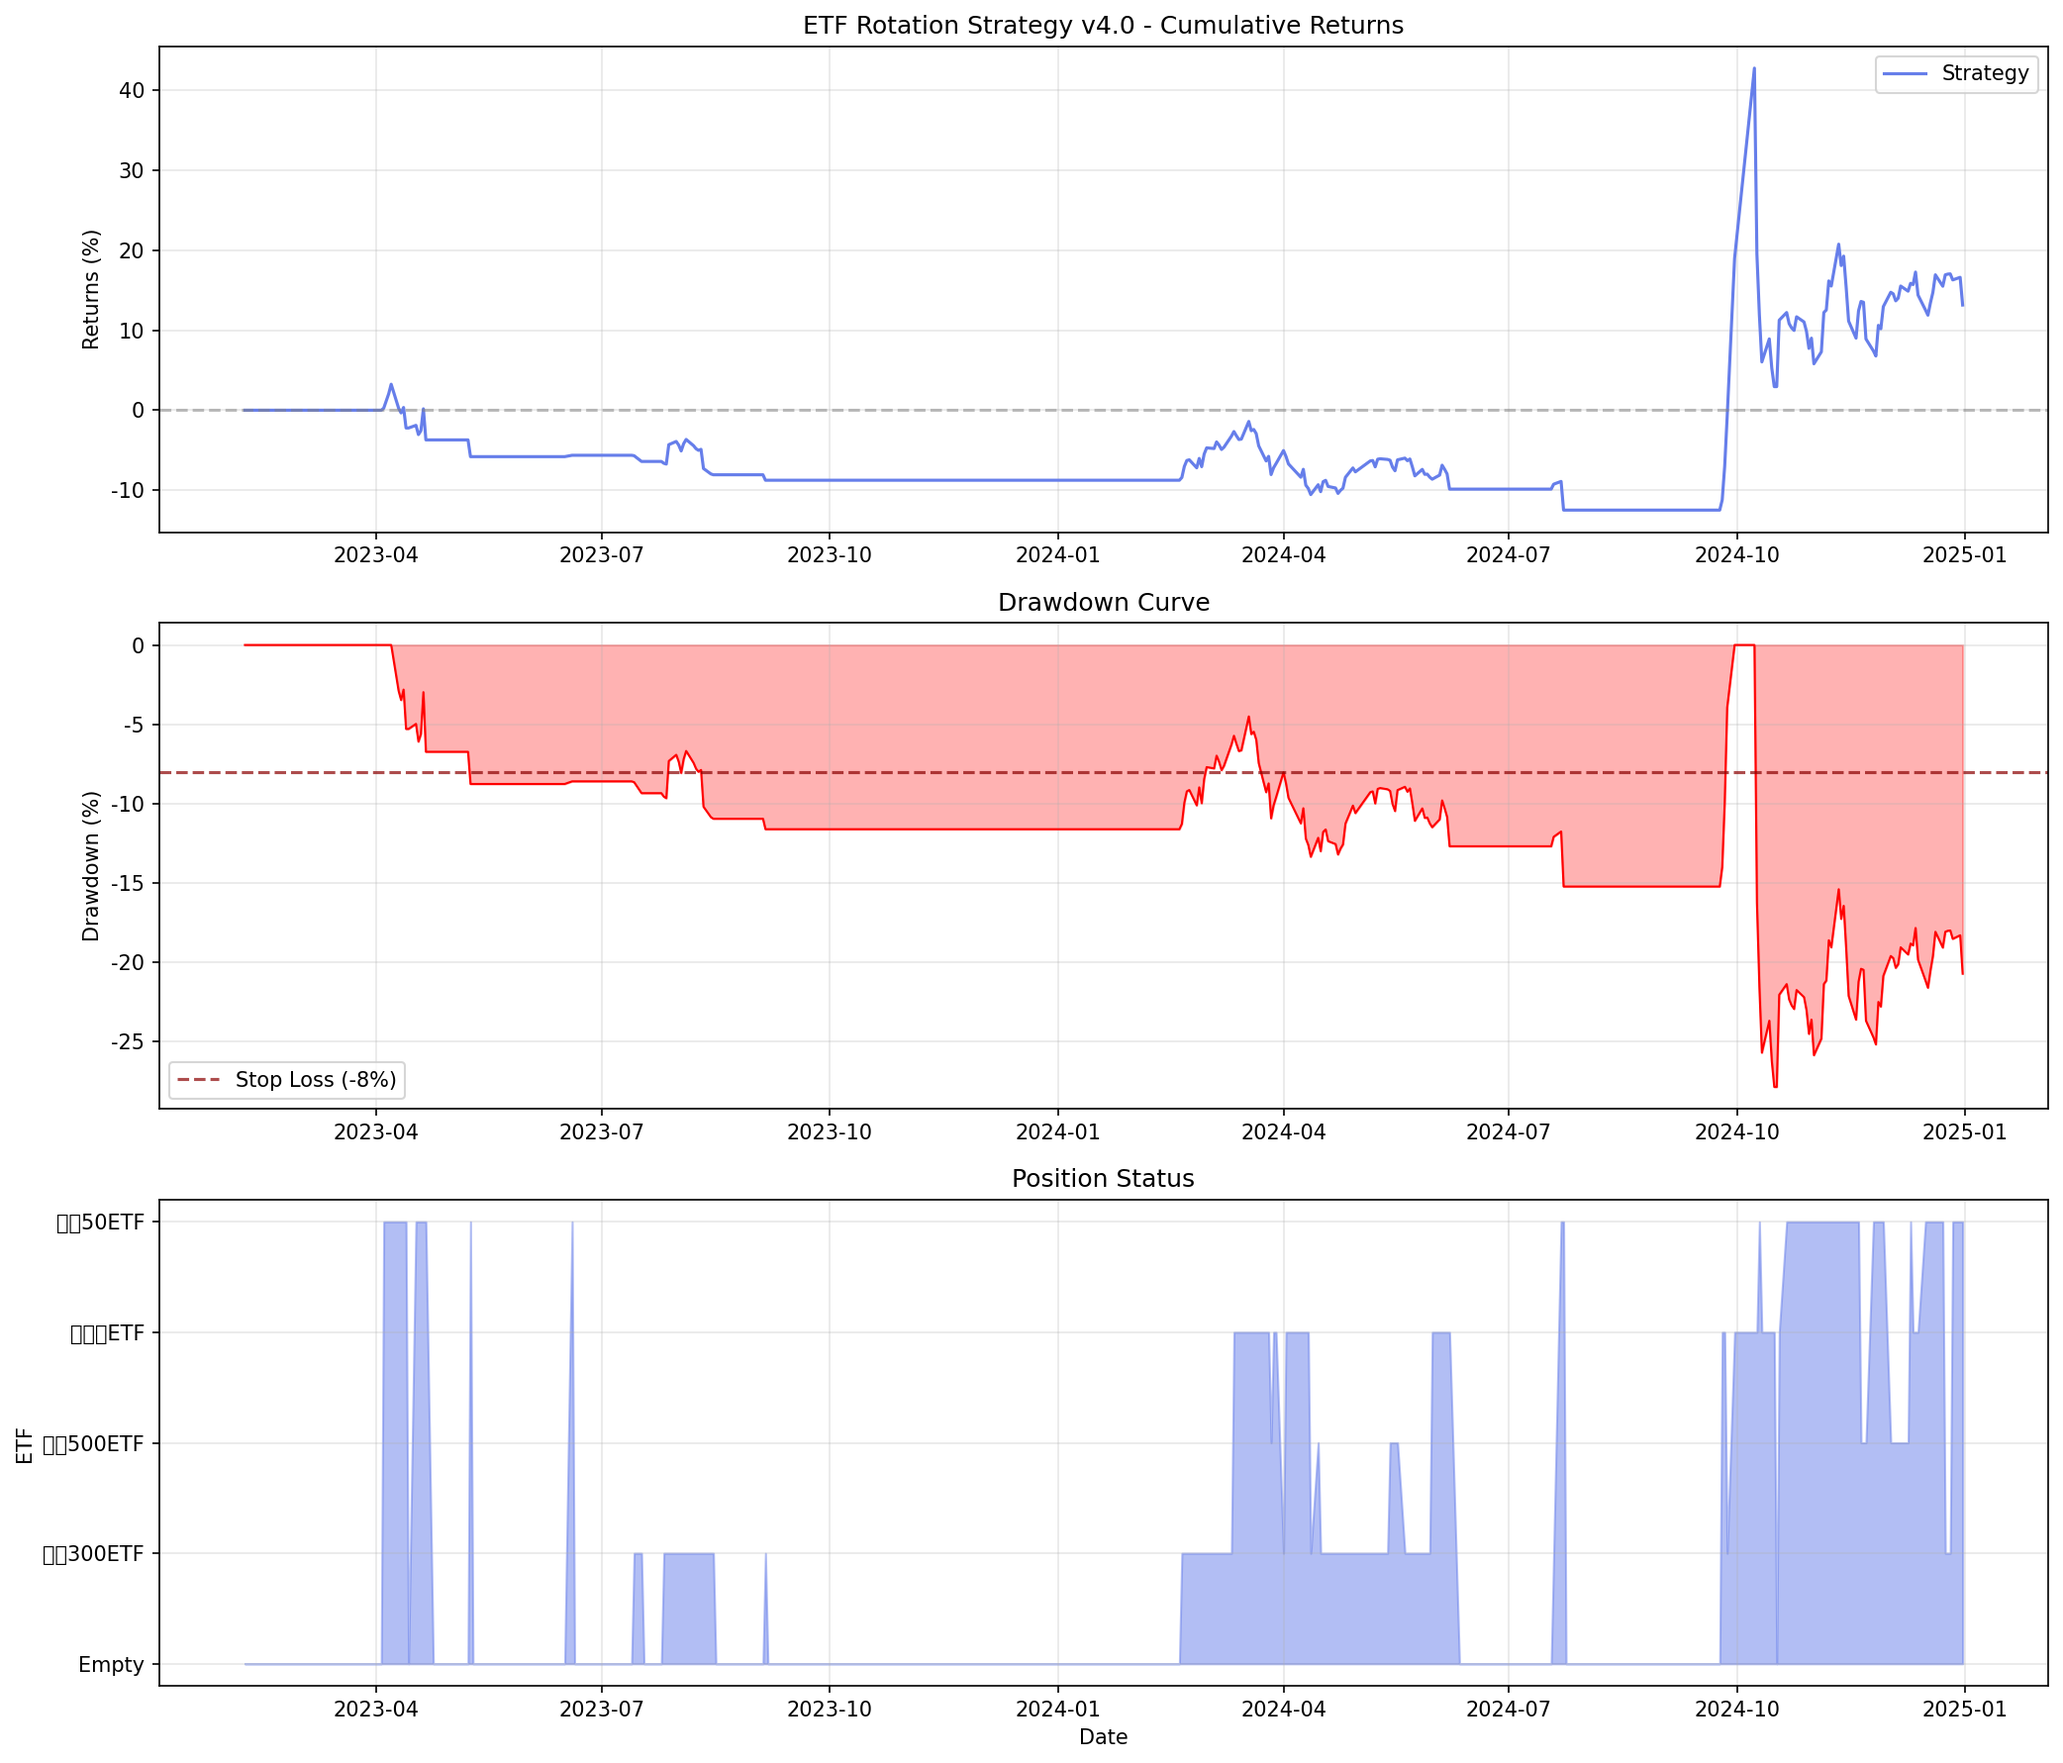
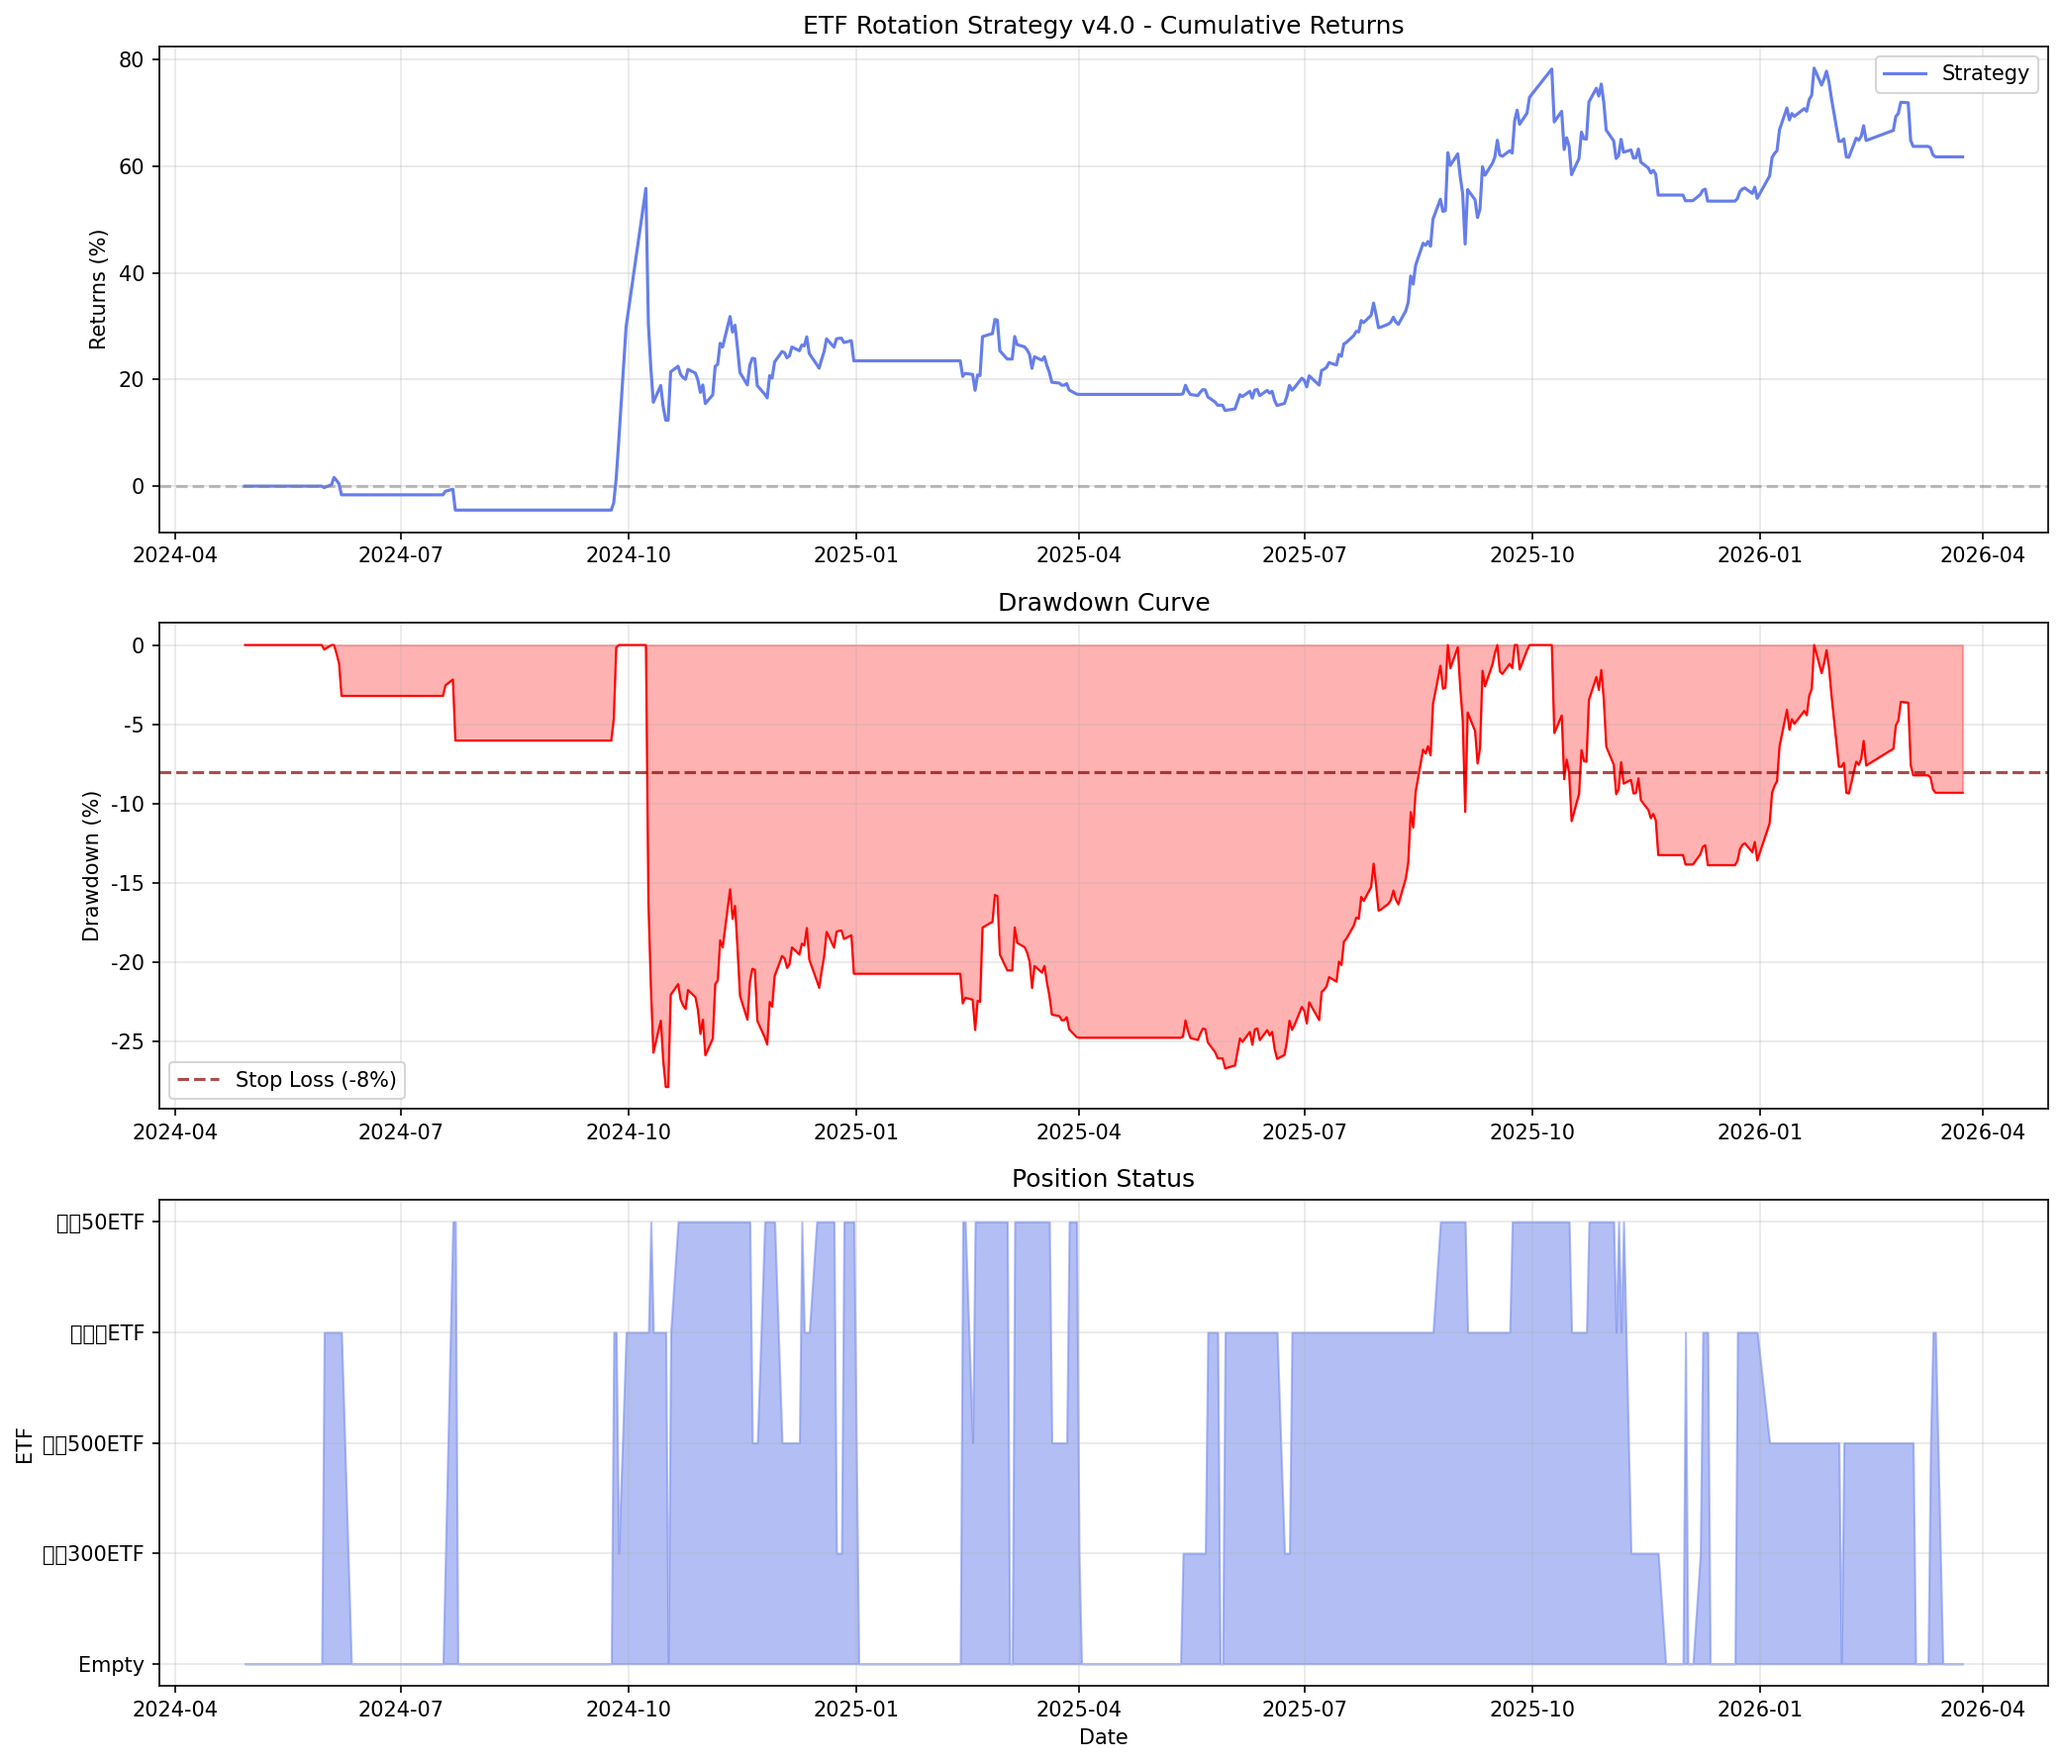
Update backtest to 2026-03-24: Sharpe 0.97, Annual Return 33.83%, Drawdown -27.90%

diff --git a/strategies/etf_rotation_v41.py b/strategies/etf_rotation_v41.py
@@ -1,0 +1,275 @@
+#!/usr/bin/env python3
+"""
+ETF轮动策略 v4.1 - 分层轮动
+改进：宽基ETF和行业ETF分层轮动，避免过度集中行业风险
+
+作者：QuantBot
+日期：2026-03-24
+"""
+
+import sys
+sys.path.insert(0, '/project/quant-research/data')
+
+import pandas as pd
+import numpy as np
+from datetime import datetime, timedelta
+import matplotlib
+matplotlib.use('Agg')
+import matplotlib.pyplot as plt
+from data_cache import get_data, batch_get_data
+import warnings
+warnings.filterwarnings('ignore')
+
+plt.rcParams['font.sans-serif'] = ['DejaVu Sans']
+plt.rcParams['axes.unicode_minus'] = False
+
+
+class ETFRotationStrategyV41:
+    """ETF轮动策略 v4.1 - 分层轮动"""
+    
+    def __init__(self, start_date='20150101', end_date=None, 
+                 momentum_window=30, market_filter_window=60,
+                 stop_loss=-0.08):
+        self.start_date = start_date
+        self.end_date = end_date or datetime.now().strftime('%Y%m%d')
+        self.momentum_window = momentum_window
+        self.market_filter_window = market_filter_window
+        self.stop_loss = stop_loss
+        
+        # 分层ETF池
+        self.base_etfs = {  # 宽基ETF（主要仓位）
+            'sh510300': '沪深300ETF',
+            'sh510500': '中证500ETF',
+            'sz159915': '创业板ETF',
+            'sh588000': '科创50ETF',
+        }
+        
+        self.sector_etfs = {  # 行业ETF（次要仓位，限制比例）
+            'sh510900': '恒生ETF',
+            'sh513130': '恒生科技ETF',
+            'sz159863': '光伏ETF',
+            'sh512760': '芯片ETF',
+            'sh512000': '券商ETF',
+            'sh512480': '半导体ETF',
+        }
+        
+        # 合并所有ETF
+        self.etfs = {**self.base_etfs, **self.sector_etfs}
+        
+        self.market_etf = 'sh510300'
+        self.sector_max_ratio = 0.3  # 行业ETF最大仓位30%
+        
+        self.price_data = {}
+        self.trade_log = []
+        self.portfolio_value = []
+        
+    def fetch_data(self):
+        """获取数据"""
+        print("📊 正在获取数据...")
+        
+        codes = list(self.etfs.keys())
+        results = batch_get_data(codes, self.start_date, self.end_date)
+        
+        for code, df in results.items():
+            self.price_data[code] = df
+            etf_type = "宽基" if code in self.base_etfs else "行业"
+            print(f"  ✅ [{etf_type}] {self.etfs[code]}: {len(df)}条")
+        
+        if not self.price_data:
+            raise ValueError("未能获取数据")
+    
+    def backtest(self, initial_capital=100000):
+        """执行回测 - 分层轮动"""
+        print("\n🚀 开始分层轮动回测...")
+        print(f"宽基ETF: {list(self.base_etfs.values())}")
+        print(f"行业ETF: {list(self.sector_etfs.values())} (限制{self.sector_max_ratio*100:.0f}%仓位)")
+        
+        # 准备数据
+        all_dates = set()
+        for df in self.price_data.values():
+            all_dates.update(df.index)
+        
+        min_date = max(df.index.min() for df in self.price_data.values()) + timedelta(days=max(self.momentum_window, self.market_filter_window))
+        trade_dates = sorted([d for d in all_dates if d >= min_date])
+        
+        cash = initial_capital
+        position = None
+        shares = 0
+        entry_price = 0
+        
+        for current_date in trade_dates:
+            prices = {code: df.loc[current_date, 'close'] 
+                     for code, df in self.price_data.items() 
+                     if current_date in df.index}
+            
+            if not prices:
+                continue
+            
+            position_value = shares * prices.get(position, 0) if position else 0
+            total_value = cash + position_value
+            
+            self.portfolio_value.append({
+                'date': current_date,
+                'value': total_value,
+                'position': position,
+            })
+            
+            # 止损检查
+            if position and position in prices:
+                current_price = prices[position]
+                if entry_price > 0:
+                    loss_pct = (current_price / entry_price - 1)
+                    if loss_pct <= self.stop_loss:
+                        cash += shares * current_price
+                        self.trade_log.append({
+                            'date': current_date, 'action': 'sell', 'code': position,
+                            'price': current_price, 'reason': f'stop_loss'
+                        })
+                        position = None
+                        shares = 0
+                        entry_price = 0
+                        continue
+            
+            # 大盘过滤
+            market_df = self.price_data.get(self.market_etf)
+            market_above_ma = False
+            if market_df is not None and current_date in market_df.index:
+                idx = market_df.index.get_loc(current_date)
+                if idx >= self.market_filter_window:
+                    ma = market_df.iloc[idx - self.market_filter_window + 1:idx + 1]['close'].mean()
+                    market_above_ma = market_df.loc[current_date, 'close'] > ma
+            
+            if not market_above_ma:
+                if position and position in prices:
+                    cash += shares * prices[position]
+                    position = None
+                    shares = 0
+                    entry_price = 0
+                continue
+            
+            # 分层轮动逻辑
+            # 1. 先计算所有ETF动量
+            momentum_scores = {}
+            for code, df in self.price_data.items():
+                if current_date in df.index:
+                    idx = df.index.get_loc(current_date)
+                    if idx >= self.momentum_window:
+                        past_price = df.iloc[idx - self.momentum_window]['close']
+                        current_price = df.loc[current_date, 'close']
+                        momentum_scores[code] = (current_price / past_price - 1) * 100
+            
+            if not momentum_scores:
+                continue
+            
+            # 2. 找出宽基和行业各自最强的
+            base_momentum = {k: v for k, v in momentum_scores.items() if k in self.base_etfs}
+            sector_momentum = {k: v for k, v in momentum_scores.items() if k in self.sector_etfs}
+            
+            best_base = max(base_momentum.items(), key=lambda x: x[1])[0] if base_momentum else None
+            best_sector = max(sector_momentum.items(), key=lambda x: x[1])[0] if sector_momentum else None
+            
+            # 3. 选择逻辑：优先宽基，行业只在明显强势时配置
+            selected = None
+            if best_base and best_sector:
+                sector_advantage = momentum_scores[best_sector] - momentum_scores[best_base]
+                if sector_advantage > 3:  # 行业ETF领先宽基3%以上才考虑
+                    selected = best_sector
+                else:
+                    selected = best_base
+            elif best_base:
+                selected = best_base
+            
+            # 4. 执行调仓
+            if selected and selected != position:
+                if position and position in prices:
+                    cash += shares * prices[position]
+                
+                buy_price = prices.get(selected, 0)
+                if buy_price > 0 and cash > 0:
+                    shares = cash / buy_price
+                    cash = 0
+                    position = selected
+                    entry_price = buy_price
+                    self.trade_log.append({
+                        'date': current_date, 'action': 'buy', 'code': selected,
+                        'price': buy_price, 'momentum': momentum_scores.get(selected)
+                    })
+        
+        print(f"✅ 回测完成！共{len(trade_dates)}个交易日")
+        return self.calculate_metrics(initial_capital)
+    
+    def calculate_metrics(self, initial_capital):
+        """计算指标"""
+        df = pd.DataFrame(self.portfolio_value)
+        df.set_index('date', inplace=True)
+        
+        df['returns'] = df['value'].pct_change()
+        df['cum_returns'] = (df['value'] / initial_capital - 1) * 100
+        
+        total_return = (df['value'].iloc[-1] / initial_capital - 1) * 100
+        annual_return = total_return / (len(df) / 252)
+        volatility = df['returns'].std() * np.sqrt(252) * 100
+        sharpe_ratio = annual_return / volatility if volatility > 0 else 0
+        
+        df['cummax'] = df['value'].cummax()
+        df['drawdown'] = (df['value'] / df['cummax'] - 1) * 100
+        max_drawdown = df['drawdown'].min()
+        
+        buys = [t for t in self.trade_log if t['action'] == 'buy']
+        base_buys = [t for t in buys if t['code'] in self.base_etfs]
+        sector_buys = [t for t in buys if t['code'] in self.sector_etfs]
+        
+        self.metrics = {
+            '初始资金': initial_capital,
+            '最终资金': df['value'].iloc[-1],
+            '总收益率': total_return,
+            '年化收益率': annual_return,
+            '夏普比率': sharpe_ratio,
+            '最大回撤': max_drawdown,
+            '交易次数': len(buys),
+            '宽基买入次数': len(base_buys),
+            '行业买入次数': len(sector_buys),
+        }
+        
+        self.df = df
+        return self.metrics
+    
+    def print_report(self):
+        """打印报告"""
+        print("\n" + "="*60)
+        print("📊 ETF分层轮动策略 v4.1 回测报告")
+        print("="*60)
+        print(f"\n策略参数:")
+        print(f"  动量窗口: {self.momentum_window}日")
+        print(f"  大盘过滤: {self.market_filter_window}日均线")
+        print(f"  行业触发阈值: 领先宽基3%")
+        
+        print(f"\n回测结果:")
+        print(f"  总收益率: {self.metrics['总收益率']:.2f}%")
+        print(f"  年化收益率: {self.metrics['年化收益率']:.2f}%")
+        print(f"  夏普比率: {self.metrics['夏普比率']:.2f}")
+        print(f"  最大回撤: {self.metrics['最大回撤']:.2f}%")
+        print(f"  交易次数: {self.metrics['交易次数']}次")
+        print(f"    - 宽基ETF: {self.metrics['宽基买入次数']}次")
+        print(f"    - 行业ETF: {self.metrics['行业买入次数']}次")
+        print("="*60)
+
+
+def main():
+    strategy = ETFRotationStrategyV41(
+        start_date='20220101',
+        end_date='20241231',
+        momentum_window=30,
+        market_filter_window=60,
+        stop_loss=-0.08
+    )
+    
+    strategy.fetch_data()
+    metrics = strategy.backtest(initial_capital=100000)
+    strategy.print_report()
+    
+    print("\n✅ 分层轮动策略回测完成！")
+
+
+if __name__ == '__main__':
+    main()

diff --git a/strategies/etf_rotation_v4.py b/strategies/etf_rotation_v4.py
@@ -62,12 +62,12 @@ class ETFRotationStrategyV4:
         self.stop_loss = stop_loss
         self.position_size = position_size
         
-        # ETF标的池
+        # ETF标的池 - 4只宽基（效果最好的配置）
         self.etfs = {
             'sh510300': '沪深300ETF',
             'sh510500': '中证500ETF',
             'sz159915': '创业板ETF',
-            'sh588000': '科创50ETF'
+            'sh588000': '科创50ETF',
         }
         
         self.market_etf = 'sh510300'
@@ -343,12 +343,12 @@ class ETFRotationStrategyV4:
 
 def main():
     """主函数"""
-    # 使用改进的参数
+    # 使用改进的参数，回测到2026年
     strategy = ETFRotationStrategyV4(
         start_date='20150101',      # 从2015年开始
-        end_date='20241231',
-        momentum_window=30,          # 30日动量（比20日更稳健）
-        market_filter_window=60,     # 60日均线过滤（比20日更宽松）
+        end_date='20260324',        # 到2026年3月24日（今天）
+        momentum_window=30,          # 30日动量
+        market_filter_window=60,     # 60日均线过滤
         stop_loss=-0.08              # -8%硬止损
     )
     
